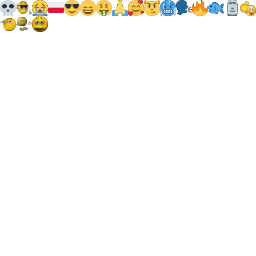
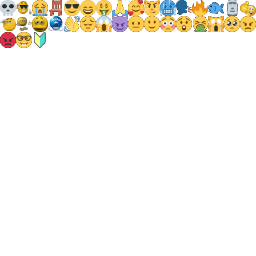
DFChatImprovments - Add emojis 0xE913-E922

Changed region(s): [[0.1875, 0.0, 1.0, 0.125], [0.0, 0.125, 0.1875, 0.1875]]

diff --git a/DFChatImprovements/src/main/java/uk/co/nikodem/dFChatImprovements/DFChatImprovements.java b/DFChatImprovements/src/main/java/uk/co/nikodem/dFChatImprovements/DFChatImprovements.java
@@ -42,7 +42,7 @@ public final class DFChatImprovements extends JavaPlugin implements Listener {
                     case "skull" -> msg = msg.replace(word, "\uE900");
                     case "cold_sunglasses" -> msg = msg.replace(word, "\uE901");
                     case "sob" -> msg = msg.replace(word, "\uE902");
-                    case "flag_pl" -> msg = msg.replace(word, "\uE903");
+                    case "chair" -> msg = msg.replace(word, "\uE903");
                     case "sunglasses" -> msg = msg.replace(word, "\uE904");
                     case "smile" -> msg = msg.replace(word, "\uE905");
                     case "money_mouth", "money_mouth_face" -> msg = msg.replace(word, "\uE906");
@@ -58,11 +58,29 @@ public final class DFChatImprovements extends JavaPlugin implements Listener {
                     case "salute" -> msg = msg.replace(word, "\uE910");
                     case "shrug" -> msg = msg.replace(word, "\uE911");
                     case "wompwomp" -> msg = msg.replace(word, "\uE912");
+                    case "joobi", "cold_cry" -> msg = msg.replace(word, "\uE913");
+                    case "wave", "waving_hand" -> msg = msg.replace(word, "\uE914");
+                    case "pensive", "pensive_face" -> msg = msg.replace(word, "\uE915");
+                    case "scream" -> msg = msg.replace(word, "\uE916");
+                    case "smiling_imp" -> msg = msg.replace(word, "\uE917");
+                    case "neutral_face", "neutral" -> msg = msg.replace(word, "\uE918");
+                    case "slight_smile", "slightly_smiling_face" -> msg = msg.replace(word, "\uE919");
+                    case "flushed" -> msg = msg.replace(word, "\uE91A");
+                    case "astonished" -> msg = msg.replace(word, "\uE91B");
+                    case "face_vomiting", "vomiting" -> msg = msg.replace(word, "\uE91C");
+                    case "scream_cat" -> msg = msg.replace(word, "\uE91D");
+                    case "pleading", "pleading_face" -> msg = msg.replace(word, "\uE91E");
+                    case "angry", "angry_face" -> msg = msg.replace(word, "\uE91F");
+                    case "rage", "rage_face", "pouting_face" -> msg = msg.replace(word, "\uE920");
+                    case "nerd", "nerd_face" -> msg = msg.replace(word, "\uE921");
+                    case "beginner", "japanese_symbol_for_beginner" -> msg = msg.replace(word, "\uE922");
 
                     case null, default -> {
 
                     }
                 }
+
+
             }
         }
 
